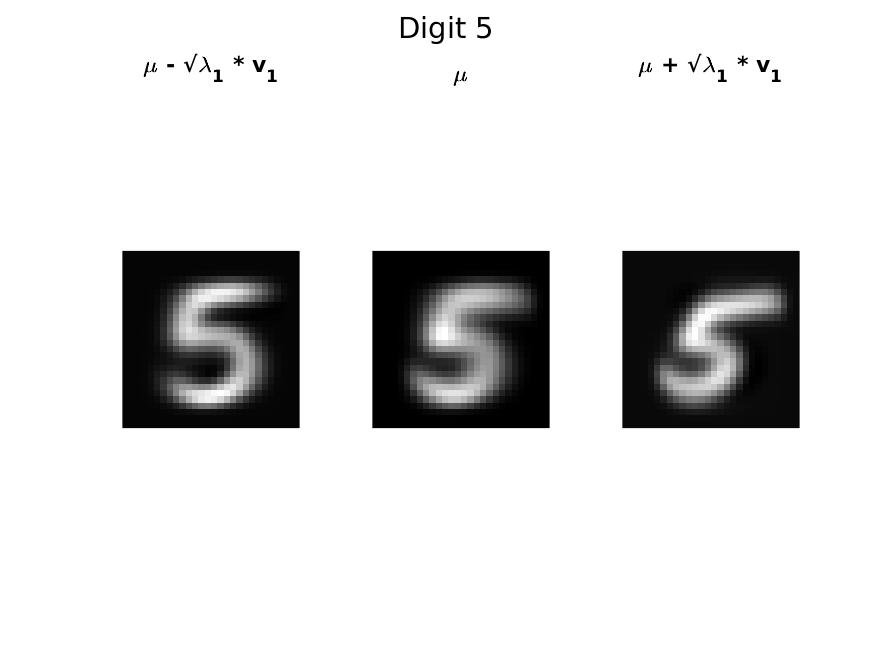
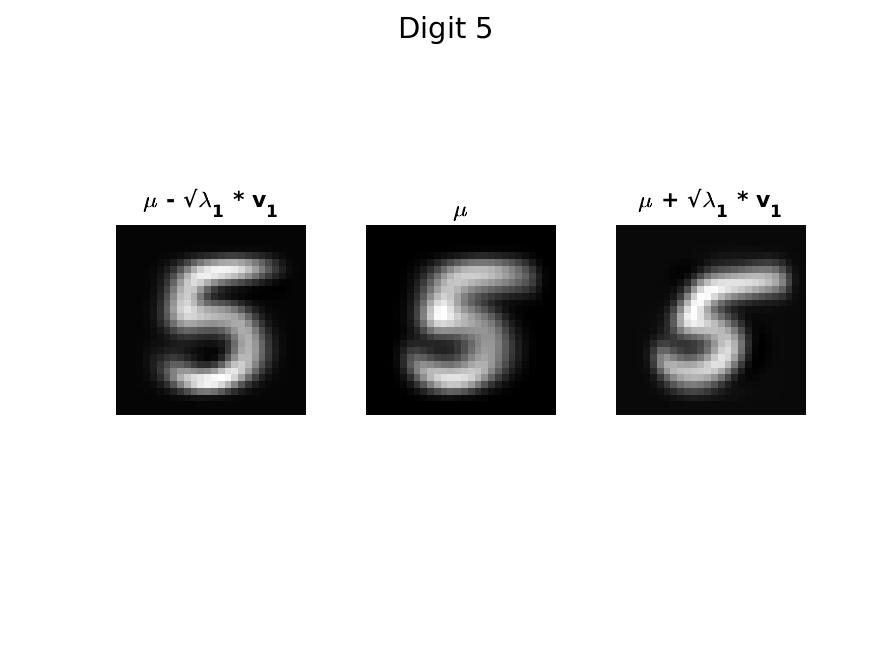
Updated plots and code indentation

diff --git a/code/q3.m b/code/q3.m
@@ -7,10 +7,9 @@ DATA_PATHS = ["../data/points2D_Set1.mat", "../data/points2D_Set2.mat"];
 SAVE_PATHS = ["plots/q3/q3i.jpg", "plots/q3/q3ii.jpg"];
 
 for i = [1 2]
-    
     % Load data
     load(DATA_PATHS(i), "-mat");
-
+    
     % Scatter Plot
     hold off;
     scatter(x, y, 5, "filled");
@@ -19,34 +18,35 @@ for i = [1 2]
     xlabel("x");
     ylabel("y");
     title("Question 3");
-
+    
     % Create R^2 data
     N = size(x, 1);
     data_uncentered = [x y]; % Nx2 matrix of observed data
-
+    
     % Computing the sample mean
     mu = sum(data_uncentered)./N;
     
     % Center the data about the mean
     data = data_uncentered - mu;
-
+    
     % Computing the sample covariance matrix
     C = (1/(N-1)).*(data' * data);
     
     % Eigenvalue decomposition of C
     [v, ~] = eigs(C, 1); % Select only the first principal component
-
+    
     % Computing parameters of the line
     m = v(2)/v(1); % slope of the line to be fitted
     c = mu(2)-m*mu(1); % intercept
-
+    
     % Plotting the fitted line
-    x_line = min(x):0.005:max(x); 
+    x_line = min(x):0.005:max(x);
     y_line = m*x_line + c;
     hold on;
     plot(x_line, y_line, 'r');
     legend(["Given Data", "Fitted line using PCA"], "Location", "Northwest");
     saveas(gcf, SAVE_PATHS(i)); % Save current figure
-
 end
 clear i;
+
+close all;

diff --git a/code/q4.m b/code/q4.m
@@ -28,17 +28,18 @@ for digit=0:9
     subplot(1,3,1);
     imagesc(reshape(mean - sqrt(lamb1)*v1, [WIDTH WIDTH]));
     title("\mu - \surd{\lambda_1} * v_1");
-    axis equal, axis off;
-    
+    pbaspect([1 1 1]);
+    axis off;
     subplot(1,3,2);
     imagesc(reshape(mean, [WIDTH WIDTH]));
     title("\mu");
-    axis equal, axis off;
-    
+    pbaspect([1 1 1]);
+    axis off;
     subplot(1,3,3);
     imagesc(reshape(mean + sqrt(lamb1)*v1, [WIDTH WIDTH]))
     title("\mu + \surd{\lambda_1} * v_1");
-    axis equal, axis off;
+    pbaspect([1 1 1]);
+    axis off;
     
     sgtitle(sprintf("Digit %i", digit));
     colormap('gray');
@@ -51,7 +52,7 @@ for digit=0:9
     sgtitle("");
     saveas(gcf, sprintf("plots/q4/eigenvalues_%i.jpg", digit)); % Save current figure
     semilogx(1:SIZE,dia);
-    fprintf("Significant mode of variations for Digit %i is %i (Number of Eigenvalues > 1%% of Max Eigenvalue)\n", digit, sum(dia>=dia(1)/100));
+    fprintf("%i Significant mode of variations for Digit %i (Number of Eigenvalues > 1%% of Max Eigenvalue)\n", sum(dia>dia(1)/100), digit);
     title(sprintf("Sorted Eigenvalues for Digit %i (X-axis log scaled)", digit));
     saveas(gcf, sprintf("plots/q4/eigenvalues_log_%i.jpg", digit)); % Save current figure
 end

diff --git a/code/q2.m b/code/q2.m
@@ -25,7 +25,7 @@ for lN=1:5 % Looping over values of log10(N)
         
         % ML estimate of mean is sum(x)/N
         mean_mle = sum(x,2) / N;
-         % ML estimate of covariance matrix is sum((x-mu)(x-mu)')/N
+        % ML estimate of covariance matrix is sum((x-mu)(x-mu)')/N
         cov_mle = x_mu*x_mu' / N;
         
         % Error measure of mean and covariance
@@ -34,7 +34,7 @@ for lN=1:5 % Looping over values of log10(N)
     end
     
     hold off;
-     % Plot data points for seed=100
+    % Plot data points for seed=100
     scatter(x(1,:), x(2,:));
     
     % Calculating principal mode of variation
@@ -45,7 +45,7 @@ for lN=1:5 % Looping over values of log10(N)
         ep = D(2,2)*Q(:, 2);
     end
     line([0 ep(1)] + mean_mle(1), [0 ep(2)] + mean_mle(2),'Color','red','LineStyle','--','LineWidth',1);
-
+    
     title(sprintf("N = %i", N));
     saveas(gcf, sprintf("plots/q2/d_%i.jpg", N)); % Save current figure
 end
@@ -71,4 +71,3 @@ close all;
 function ret = norm(vec)
     ret = sqrt(sum(vec.*vec, 'all'));
 end
-

diff --git a/code/q6.m b/code/q6.m
@@ -18,7 +18,7 @@ for i = 1:N
     data = [data x];
 end
 
-% Cast as double for further processing: 
+% Cast as double for further processing:
 data = double(data);
 
 % Clear variables not needed further:
@@ -34,7 +34,7 @@ data = data./255;
 mu = sum(data, 2)./N;
 
 % Centering the data about mu
-data = data - mu; 
+data = data - mu;
 
 % Computing the covariance matrix (19200 x 19200) matrix (This shall take up 2.6GB of your RAM)
 C = (1/(N-1)).*(data * data');
@@ -52,7 +52,7 @@ clear Q;
 clear L;
 
 % Part 1:
-% 1+4 mean + Eigenvectors plots 
+% 1+4 mean + Eigenvectors plots
 subplot(1,5,1);
 image(toImg(mu, SHAPE));
 pbaspect([1 1 1]);
@@ -123,6 +123,8 @@ end
 sgtitle("Generated fruits");
 clear i;
 saveas(gcf, "plots/q6/generated_fruits.jpg");
+
+close all;
 
 % MinMax scaler for scaling images to [0, 1]
 function [y] = toImg(x, shape)

diff --git a/code/q1.m b/code/q1.m
@@ -13,7 +13,7 @@ for n = n_list
 end
 
 
-% For large values of n (>= 10^9), we sample n/10^8 10^8 arrays 
+% For large values of n (>= 10^9), we sample n/10^8 10^8 arrays
 n_fixed = single(10^8);
 n_large = single(10^9);
 n_iters = single(n_large/n_fixed);
@@ -27,5 +27,3 @@ end
 
 pi_accurate = 4*single(n_u/n_large);
 fprintf("(Large N) N = %i, pi = %.4f \n", n_large, pi_accurate);
-
-
